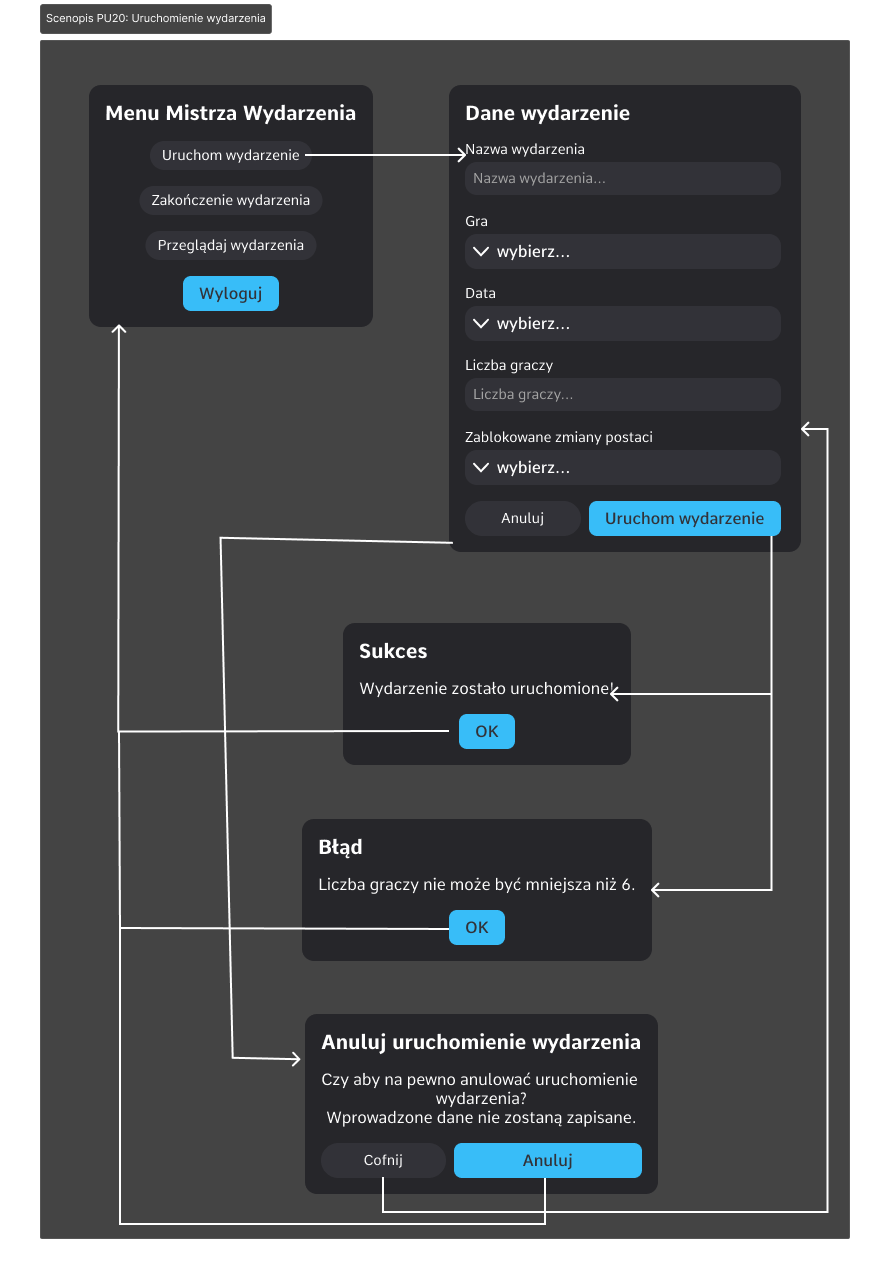
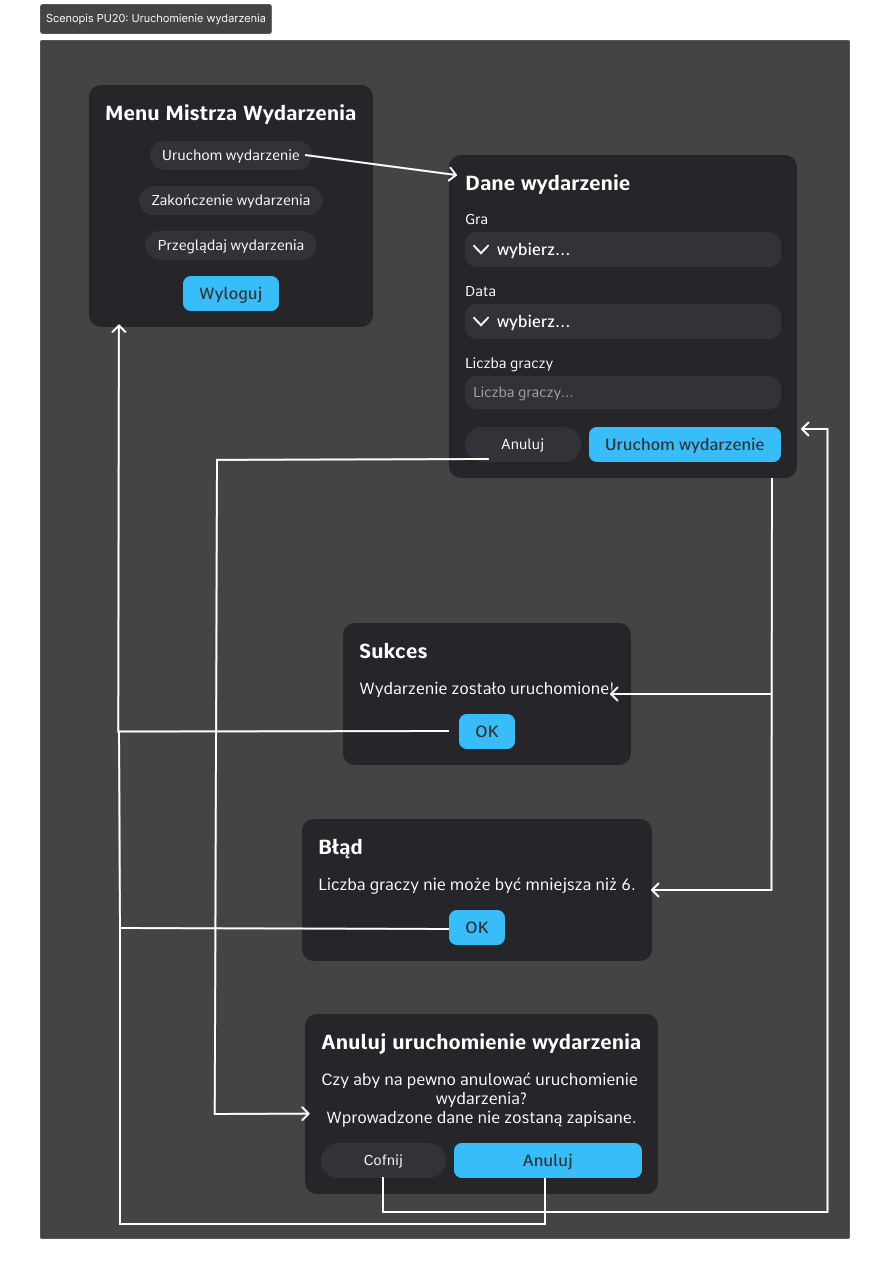
pu20: poprawki pól

diff --git a/README.md b/README.md
@@ -784,7 +784,6 @@ classDiagram
 
     class DaneWarunkuRozpoczecia {
         +minimalnaLiczbaGraczy: Integer
-        +zablokowaneZmianyPostaci: Boolean
     }
 
     Organizator    "1" --> "0..*" Wydarzenie : zarzadza
@@ -1371,7 +1370,7 @@ Rekompensata za ukończenie [Zadania].
 - Odpowiedzialny: Tomasz Rogalski
 - Wydanie: 1.0
 
-Konkretny zbiór informacji konfiguracyjnych i kryteriów niezbędnych do uruchomienia [Wydarzenia] w danym formularzu. Obejmuje takie pola jak: `minimalnaLiczbaGraczy` (integer) oraz blokada edycji kart postaci przed startem `zablokowaneZmianyPostaci` (boolean). Określane mianem spełnionych lub niespełnionych, pozwalając na start wydarzenia.
+Konkretny zbiór informacji konfiguracyjnych i kryteriów niezbędnych do uruchomienia [Wydarzenia] w danym formularzu. Obejmuje pole `minimalnaLiczbaGraczy` (integer). Określane mianem spełnionych lub niespełnionych, pozwalając na start wydarzenia.
 
 ---
 